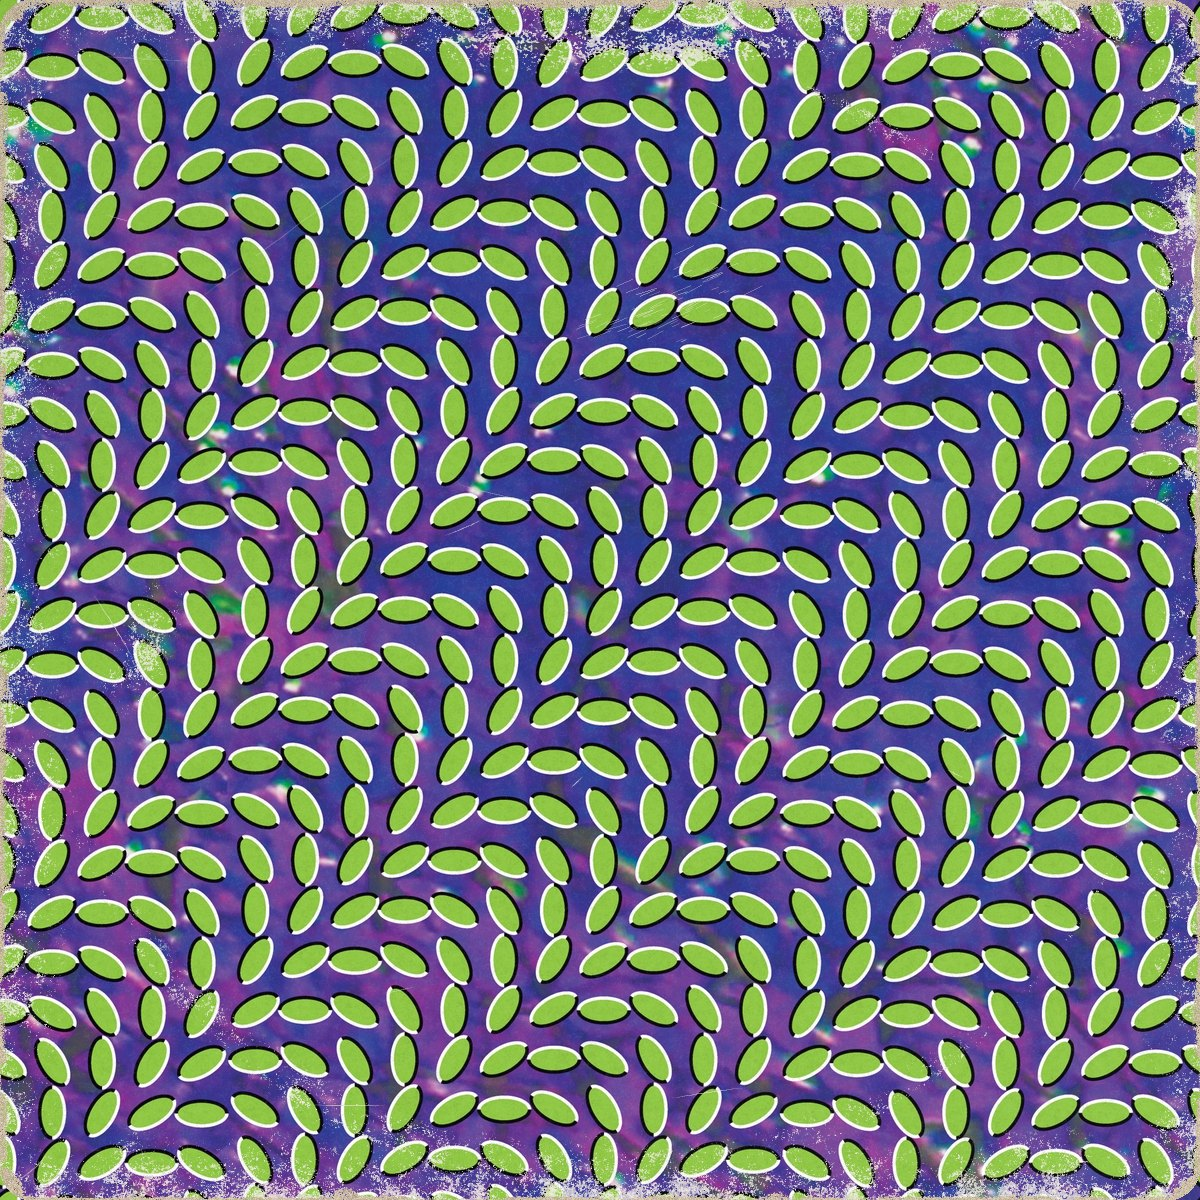
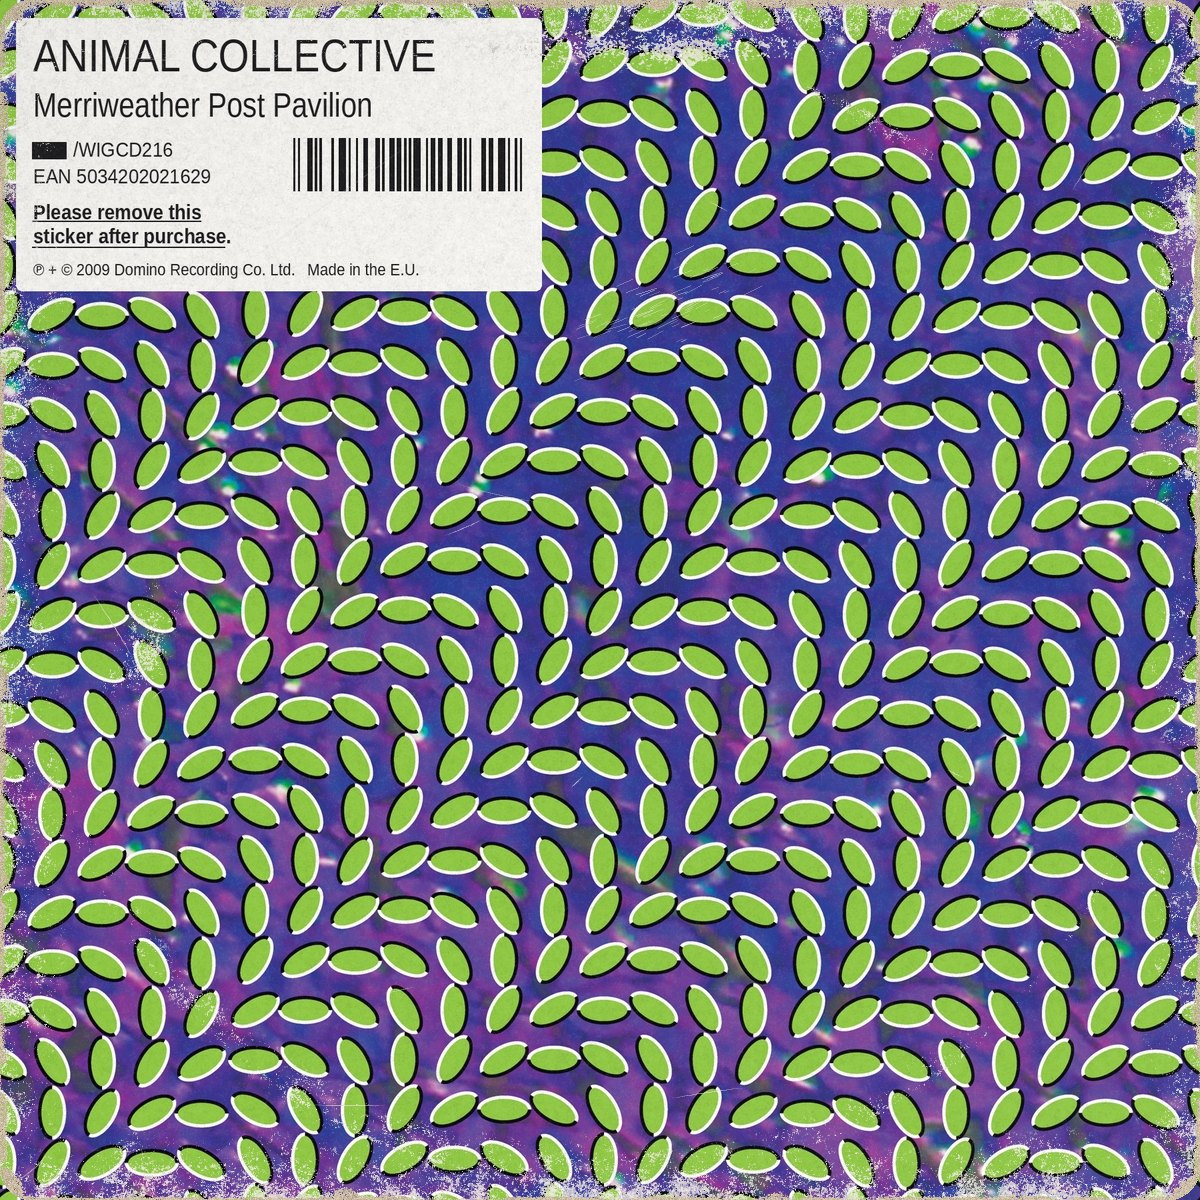
40: Merriweather's back gets the shop's barcode sticker, so it reads as the back
Recreated crisp from Drew's reference (real EAN-13 bars), placed top-left on
the front design; the sleeve wear is baked over it.

Claude-Session: https://claude.ai/code/session_01PbqXtG5SizYecEWh39Pkkj

Changed region(s): [[0.0, 0.0, 0.4625, 0.2467]]

diff --git a/scripts/make-mpp-back.py b/scripts/make-mpp-back.py
@@ -1,0 +1,63 @@
+#!/usr/bin/env python3
+"""Merriweather Post Pavilion's back: the front design (as on Drew's copy) with the shop's white
+barcode sticker top-left, recreated crisp from the reference. Writes assets/40/<slug>-back.jpg;
+make-wear.py then bakes the sleeve wear over it (so the sticker wears with the sleeve)."""
+from pathlib import Path
+from PIL import Image, ImageDraw, ImageFont
+
+ROOT = Path(__file__).resolve().parent.parent
+SLUG = 'animal-collective-merriweather-post-pavilion'
+art = Image.open(ROOT / f'assets/40/{SLUG}.jpg').convert('RGB')
+W = art.width
+k = W / 597                                   # the reference scan is 597px wide
+F = '/usr/share/fonts/truetype/liberation/LiberationSans-Regular.ttf'
+FB = '/usr/share/fonts/truetype/liberation/LiberationSans-Bold.ttf'
+INK = (24, 24, 26)
+
+
+def text(d, xy, s, size, bold=False, squash=.82):
+    """Condensed text: draw wide on a scratch layer, squeeze horizontally, paste."""
+    f = ImageFont.truetype(FB if bold else F, int(size * k))
+    w, h = d.textbbox((0, 0), s, font=f)[2:]
+    lay = Image.new('L', (w + 4, h + 8), 0); ImageDraw.Draw(lay).text((2, 2), s, font=f, fill=255)
+    lay = lay.resize((max(1, int(lay.width * squash)), lay.height), Image.LANCZOS)
+    st.paste(Image.new('RGB', lay.size, INK), (int(xy[0] * k), int(xy[1] * k)), lay)
+    return lay.width / k
+
+
+def ean13(digits):
+    L = ['0001101', '0011001', '0010011', '0111101', '0100011', '0110001', '0101111', '0111011', '0110111', '0001011']
+    G = ['0100111', '0110011', '0011011', '0100001', '0011101', '0111001', '0000101', '0010001', '0001001', '0010111']
+    R = ['1110010', '1100110', '1101100', '1000010', '1011100', '1001110', '1010000', '1000100', '1001000', '1110100']
+    par = ['LLLLLL', 'LLGLGG', 'LLGGLG', 'LLGGGL', 'LGLLGG', 'LGGLLG', 'LGGGLL', 'LGLGLG', 'LGLGGL', 'LGGLGL'][int(digits[0])]
+    bits = '101' + ''.join((L if p == 'L' else G)[int(c)] for p, c in zip(par, digits[1:7])) + '01010' + ''.join(R[int(c)] for c in digits[7:]) + '101'
+    return bits
+
+
+# the sticker, drawn at the reference's scale then scaled to the art
+sw, sh = 262, 136
+st = Image.new('RGB', (int(sw * k), int(sh * k)), (246, 245, 241))
+d = ImageDraw.Draw(st)
+text(d, (8, 5), 'ANIMAL COLLECTIVE', 23, squash=.86)
+text(d, (8, 33), 'Merriweather Post Pavilion', 17, squash=.84)
+d.rectangle([int(8 * k), int(62 * k), int(25 * k), int(70 * k)], fill=INK)   # the Domino mark
+text(d, (28, 59), '/WIGCD216', 10.5, squash=.9)
+text(d, (8, 72), 'EAN 5034202021629', 10.5, squash=.9)
+text(d, (8, 90), 'Please remove this', 10.5, bold=True, squash=.9)
+text(d, (8, 102), 'sticker after purchase.', 10.5, bold=True, squash=.9)
+d.line([(int(8 * k), int(114 * k)), (int(104 * k), int(114 * k))], fill=INK, width=max(1, int(.8 * k)))
+d.line([(int(8 * k), int(101 * k)), (int(92 * k), int(101 * k))], fill=INK, width=max(1, int(.8 * k)))
+text(d, (8, 120), '℗ + © 2009 Domino Recording Co. Ltd.   Made in the E.U.', 8.5, squash=.9)
+bits = ean13('5034202021629')                 # a real, scannable EAN-13 (check digit 9)
+x0, y0, mw = 138, 60, 1.2
+for i, b in enumerate(bits):
+    if b == '1':
+        x = int((x0 + i * mw) * k)
+        d.rectangle([x, int(y0 * k), int((x0 + (i + 1) * mw) * k) - 1, int((y0 + 26) * k)], fill=INK)
+
+m = Image.new('L', st.size, 0); ImageDraw.Draw(m).rounded_rectangle([0, 0, st.width - 1, st.height - 1], radius=int(3 * k), fill=255)
+back = art.copy()
+back.paste(st, (int(8 * k), int(9 * k)), m)
+out = ROOT / f'assets/40/{SLUG}-back.jpg'
+back.save(out, 'JPEG', quality=92)
+print(out)
